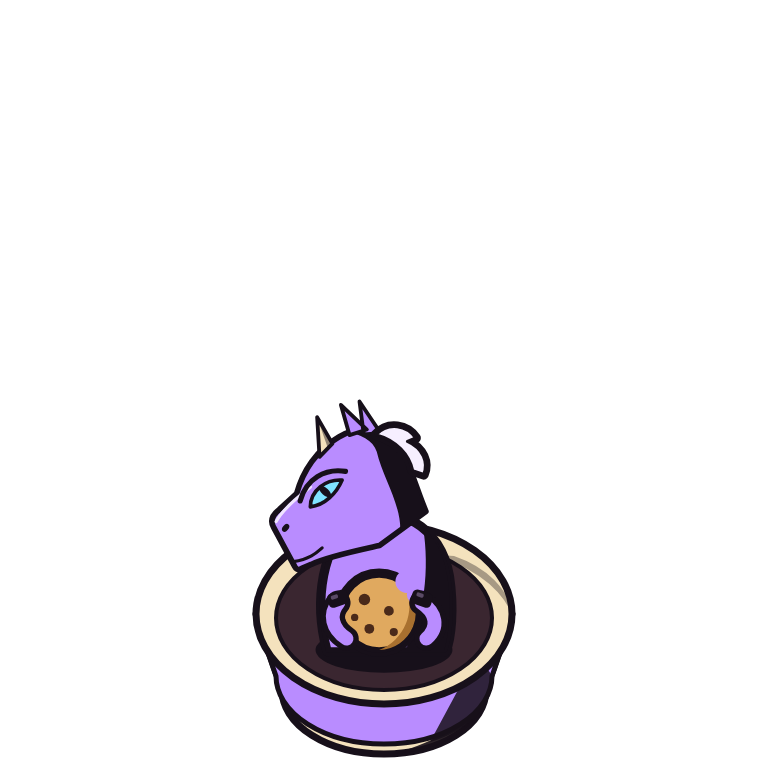
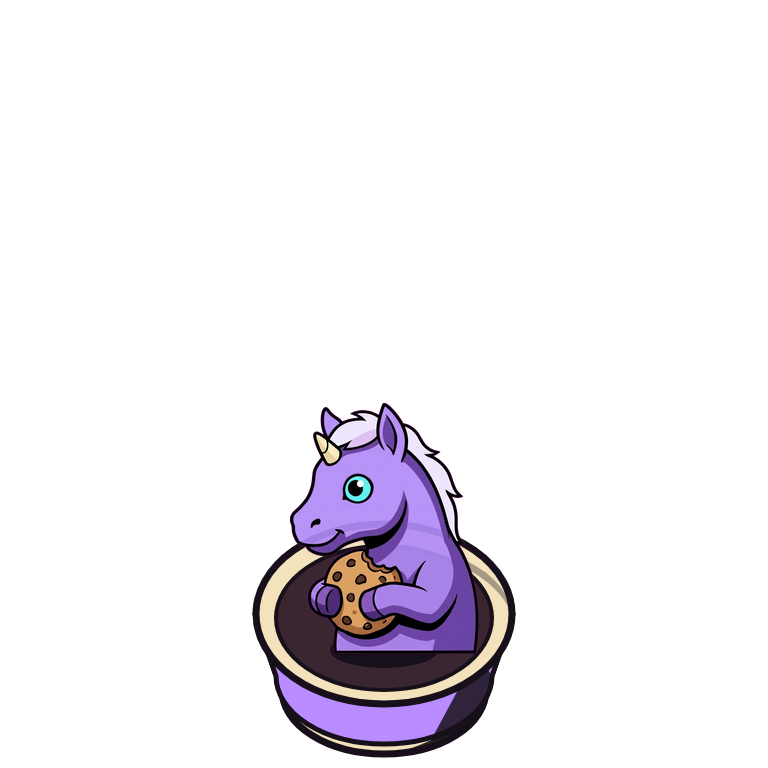
10.2.0: Gemini unicorn sprites; raw uploads moved to art-src/incoming/unicorn
Claude-Session: https://claude.ai/code/session_01YcRvipXLdSARSXJBNmnAqn

Changed region(s): [[0.3438, 0.5312, 0.625, 0.875]]

diff --git a/index.html b/index.html
@@ -83,7 +83,7 @@
 <div id="dbg"></div>
 <script>
 /* Diagnostics: any error shows at the bottom of the screen (tap to close) so it can be screenshotted on an iPhone */
-const APP_VERSION = 'v10.1.0';
+const APP_VERSION = 'v10.2.0';
 function reportError(e) {
   try { const el = document.getElementById('err'); el.textContent = '[' + APP_VERSION + '] ' + (e && e.message ? e.message : e) + (e && e.stack ? ' @ ' + String(e.stack).split('\n')[0] : ''); el.style.display = 'block'; } catch (x) {}
 }

diff --git a/sw.js b/sw.js
@@ -1,6 +1,6 @@
 // Sliding Cups service worker — makes the game playable offline.
 // Releases bump VERSION via node tools/release.js (matches package.json); old caches are deleted when the new worker activates.
-const VERSION = 'sc-10.1.0';
+const VERSION = 'sc-10.2.0';
 const SHELL = ['./', './index.html', './manifest.webmanifest', './icons/icon-192.png', './icons/icon-512.png', './icons/apple-touch-icon.png'];
 
 self.addEventListener('install', e => {

diff --git a/CLAUDE.md b/CLAUDE.md
@@ -25,7 +25,7 @@ Single-player flick-and-merge web game for David's family (iPad first, PWA). Sam
 Open `index.html` locally, or serve the folder (`python3 -m http.server`) for the service worker. Deploy = push to `main` (GitHub Pages: https://jellyfruit.github.io/game-sliding-cups/).
 
 ## Current stage
-Gameplay complete (Classic / Practice / Levels, items, VP unlocks). Art: dragon (Gemini) + unicorn (vector, Gemini replacement pending), 5 creatures still procedural. Now: tuning feel and rules from David's playtests.
+Gameplay complete (Classic / Practice / Levels, items, VP unlocks). Art: dragon + unicorn drawn by Gemini (raw busts in `art-src/incoming/`), 5 creatures still procedural. Old vector sources stay in `art-src/<kind>/build.js`. Now: tuning feel and rules from David's playtests.
 
 ## Decisions not to revisit
 - Stay 2.5D (no 3D renderer); art is pre-made sprites.

diff --git a/ART_STYLE.md b/ART_STYLE.md
@@ -2,7 +2,7 @@
 
 **Status:** approved by David (dragon and unicorn shipped) · **Updated:** 2026-11-22
 Supersedes v0.2 ("cute realism", cel shading, procedural `sheet.html` sketch, full-size wings). `sheet.html` is kept only as an old reference.
-Source of truth for the look: `art-src/unicorn/build.js` and the Gemini dragon (10.1.0, `art-src/incoming/dragon/`), which follows the same rules with richer detail. Creatures are moving to Gemini art via `art-src/GEMINI_PROMPTS.md` + `art-src/composite.py`.
+Source of truth for the look: the Gemini dragon (10.1.0) and unicorn (10.2.0) in `art-src/incoming/`, which follow these rules with richer detail; the earlier vector versions remain in `art-src/<kind>/build.js`. Creatures are moving to Gemini art via `art-src/GEMINI_PROMPTS.md` + `art-src/composite.py`.
 
 ## 1. Structure
 

diff --git a/CHANGELOG.md b/CHANGELOG.md
@@ -6,6 +6,9 @@ Versioning (`major.minor.patch`):
 - **major**: new mode, new core mechanic (e.g. items, special tables, obstacles), big physics change.
 - Doc/test-only changes don't release. Release with `node tools/release.js patch|minor|major -m "..."`.
 
+## 10.2.0 — 2026-11-23 (minor)
+- Unicorn art replaced with Gemini-drawn sprites (6 tiers × 4 expressions) via art-src/composite.py
+
 ## 10.1.0 — 2026-11-23 (minor)
 - Dragon art replaced with Gemini-drawn sprites (6 tiers × 4 expressions), composited onto the shared cup by art-src/composite.py
 
